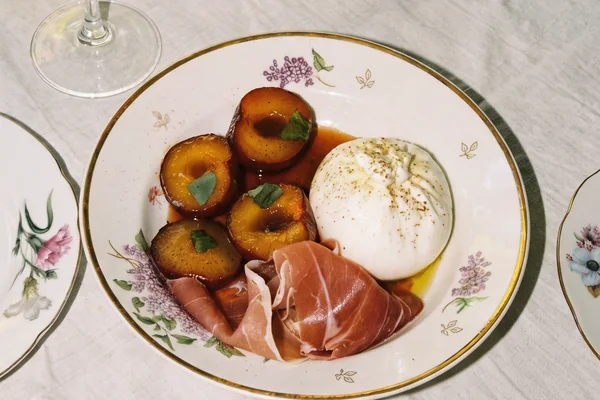
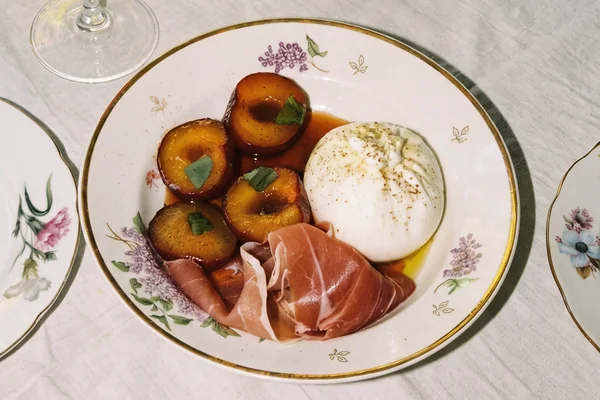
about: center plates, align drop caps and captions

diff --git a/index.html b/index.html
@@ -806,10 +806,10 @@
     .ab-pic{position:absolute;height:calc(var(--abt) * .86);width:auto;aspect-ratio:3/2;object-fit:cover;top:calc(var(--abt) * .16)}
     .ab-pic.p1{left:var(--ax)}
     .ab-pic.p2{right:var(--ax);top:calc(var(--abt) * 1.325)}
-    .ab-addr{left:calc(var(--ax) + var(--abt) * 1.29 + 2.35vw);top:calc(var(--abt) * .16 + 2px)}
-    #about .ab-info{left:calc(60.25vw - var(--gut));right:auto;text-align:left;top:calc(var(--abt) * 1.755 - 1.42em)}
+    .ab-addr{left:calc(var(--ax) + var(--abt) * 1.29 + 2.35vw);top:calc(var(--abt) * .16 - .3em)}   /* верх заглавных адреса = верх снимка и букв заголовка */
+    #about .ab-info{left:calc(var(--ax) + (100vw - 2 * var(--gut) - 2 * var(--ax)) * .598);right:auto;text-align:left;top:calc(var(--abt) * 1.755 - 1.42em)}
     .ab-addr,#about .ab-info{font-size:clamp(10px,.75vw,12px);line-height:1.42}   /* 12px на 1600 — подписи сжимаются вместе с заголовком, иначе адрес упирается в «ИЗДАЁМ» */
-    .ab-addr::before,#about .ab-info::before{float:left;font-size:3.42em;line-height:.756;margin:.17em .22em 0 0}   /* буквица на две строки — отдельной буквой, слово остаётся целым */
+    .ab-addr::before,#about .ab-info::before{float:left;font-size:2.75em;line-height:.756;margin:.155em .27em 0 0}   /* буквица на две строки — отдельной буквой, слово остаётся целым */
     .ab-addr::before{content:"М"}#about .ab-info::before{content:"В"}
     html[lang="en"] .ab-addr::before{content:"M"}html[lang="en"] #about .ab-info::before{content:"E"}
   }
